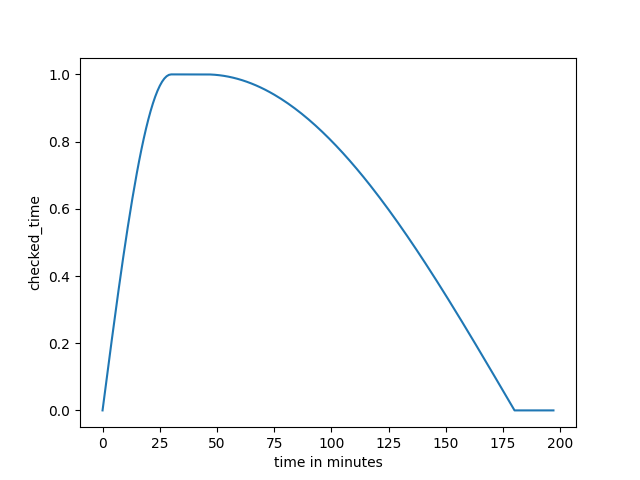
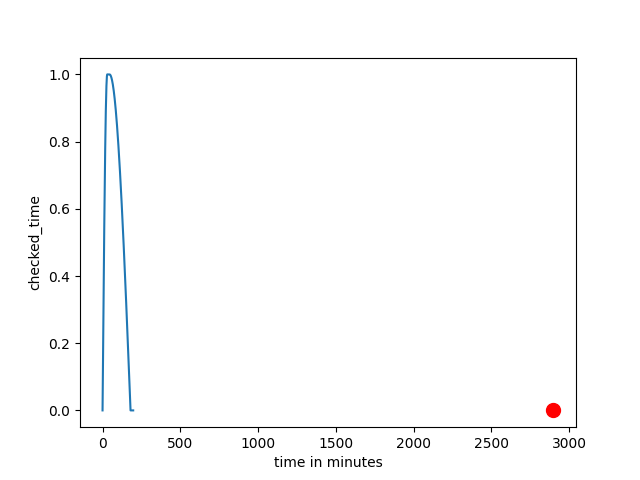
fixes

diff --git a/visualisation.py b/visualisation.py
@@ -8,15 +8,21 @@ import output.sus_test as sus_test
 
 PATH = os.getcwd()
 
-file = PATH + "/test_data/22.json"
+file = PATH + "/test_data/14.json"
+
+img_dist_path = PATH + "/input_files/distance.png"
+img_time_path = PATH + "/input_files/time.png"
+input_values = ()
+tested_values = ()
 
 
 def get_graphics(time, distance):
     # graph for time
-    #dw.n
+
     x = [i for i in range(int(dw.MAX_TEST_TIME * 1.1))]
     y = [dw.time_check(i) for i in x]
-    plt.scatter(3, 1, color="red", s=100, zorder=5, label="")
+    plt.scatter(time, dw.time_check(time), color="red",
+                s=100, zorder=5, label="time")
     plt.plot(x, y)
     plt.ylabel("checked_time")
     plt.xlabel("time in minutes")
@@ -25,7 +31,14 @@ def get_graphics(time, distance):
     # graph for distance
     x = [i for i in range(int(dw.MAX_DIST * 1.1))]
     y = [dw.distance_check(i) for i in x]
-    plt.scatter(3, 1, color="red", s=100, zorder=5, label="")
+    plt.scatter(
+        distance,
+        dw.distance_check(distance),
+        color="red",
+        s=100,
+        zorder=5,
+        label="distance",
+    )
     plt.plot(x, y)
     plt.ylabel("checked_distance")
     plt.xlabel("distance in km")
@@ -33,27 +46,61 @@ def get_graphics(time, distance):
     plt.close()
 
 
-input_values = dw.check(file)
+def new_file(num):
+    global input_values, tested_values, file
+    file = PATH + f"/test_data/{str(num).zfill(2)}.json"
+    input_values = dw.check(file)
 
-img_dist = PATH + "/input_files/distance.png"
-img_time = PATH + "/input_files/time.png"
+    teststelle, PZN, time, distance, original = input_values
+    get_graphics(original[2], original[3])
 
-teststelle, PZN, time, distance, _ = input_values
-tested_values = sus_test.evaluate(teststelle, PZN, time, distance)
+    tested_values = sus_test.evaluate(teststelle, PZN, time, distance)
+
+
+def update():
+    global file,img_time_path, img_dist_path, input_text, test_text
+    new_file(int(entry.get()))
+    input_text = f"input values: {input_values}"
+    test_text = f"tested values {tested_values}"
+    img_time = tk.PhotoImage(file=img_time_path)
+    image_time_label.config(image=img_time)
+    image_time_label.image = img_time
+
+    img_dist = tk.PhotoImage(file=img_dist_path)
+    image_dist_label.config(image=img_dist)
+    image_dist_label.image = img_dist
+
+    file_label.config(text=file)
+    file_label.text=file
+
+    input_value_label.config(text=input_text)
+    input_value_label.text=input_text
+
+    test_value_label.config(text=test_text)
+    test_value_label.text=test_text
+
+
+new_file(1)
 root = tk.Tk()
 root.title("talent_school")
 root.geometry("1800x720")
 
-tk.Label(root, text=file).pack()
+file_label = tk.Label(root, text=file)
+file_label.pack()
 
-tk.Label(root, text=f"input values: {input_values}").pack()
-tk.Label(root, text=f"tested values {tested_values}").pack()
-
-img_time = tk.PhotoImage(file=img_time)
+input_value_label = tk.Label(root, text=f"input values: {input_values}")
+input_value_label.pack()
+test_value_label = tk.Label(root, text=f"tested values {tested_values}")
+test_value_label.pack()
+img_time = tk.PhotoImage(file=img_time_path)
+entry = tk.Spinbox(root, from_=1, to=30)
+entry.pack()
+tk.Button(root, text="update", command=update).pack()
 image_time_label = tk.Label(root, image=img_time)
 image_time_label.pack(side="left", padx=15)
 
-img_dist = tk.PhotoImage(file=img_dist)
-image_dist = tk.Label(root, image=img_dist)
-image_dist.pack(side="left", padx=15)
+img_dist = tk.PhotoImage(file=img_dist_path)
+image_dist_label = tk.Label(root, image=img_dist)
+image_dist_label.pack(side="left", padx=15)
+
 root.mainloop()

diff --git a/input_files/data_read.py b/input_files/data_read.py
@@ -64,6 +64,8 @@ def get_distance(postcode_patient, postcode_testcenter):
 
 
 def time_check(difference_minutes):
+    if difference_minutes <= 0:
+        return 0
     if difference_minutes <= SAFE_TEST_TIME[0]:
         return math.sin(difference_minutes * math.pi / (2 * SAFE_TEST_TIME[0]))
     if difference_minutes <= SAFE_TEST_TIME[1]:
@@ -86,6 +88,8 @@ def get_time(time_test, time_result):
 
     difference = time_result_convertet - time_test_convertet
     difference_minutes = difference.total_seconds() / 60
+    if difference_minutes <= 0:
+        return 0
     return difference_minutes
 
 
@@ -108,8 +112,8 @@ def check(path):
     checked_pzn = pzn_check(pzn)
     checked_time = time_check(time)
     checked_distance = distance_check(distance)
-    
-    original_values = (name,pzn,time,distance)
+
+    original_values = (name, pzn, time, distance)
     return checked_name, checked_pzn, checked_time, checked_distance, original_values
 
 
